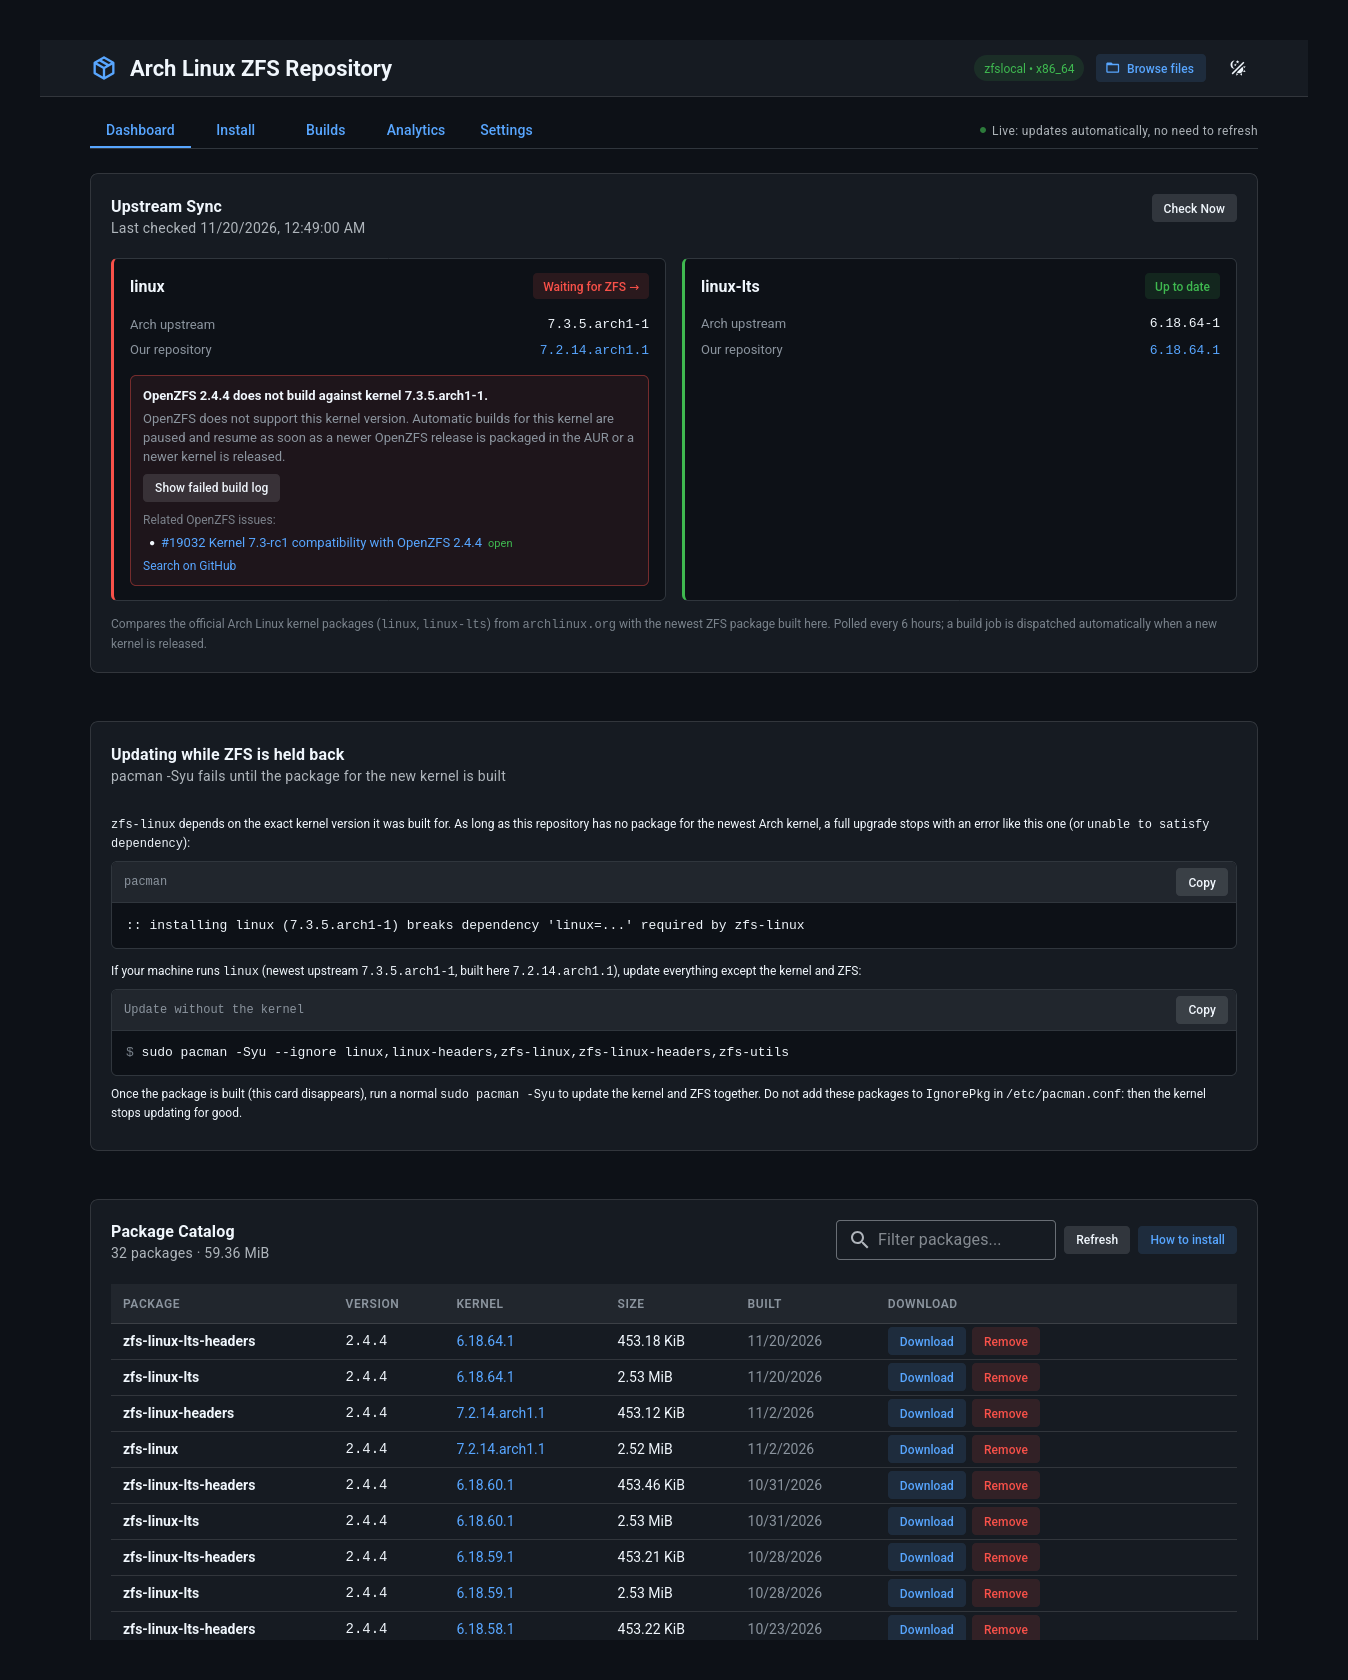
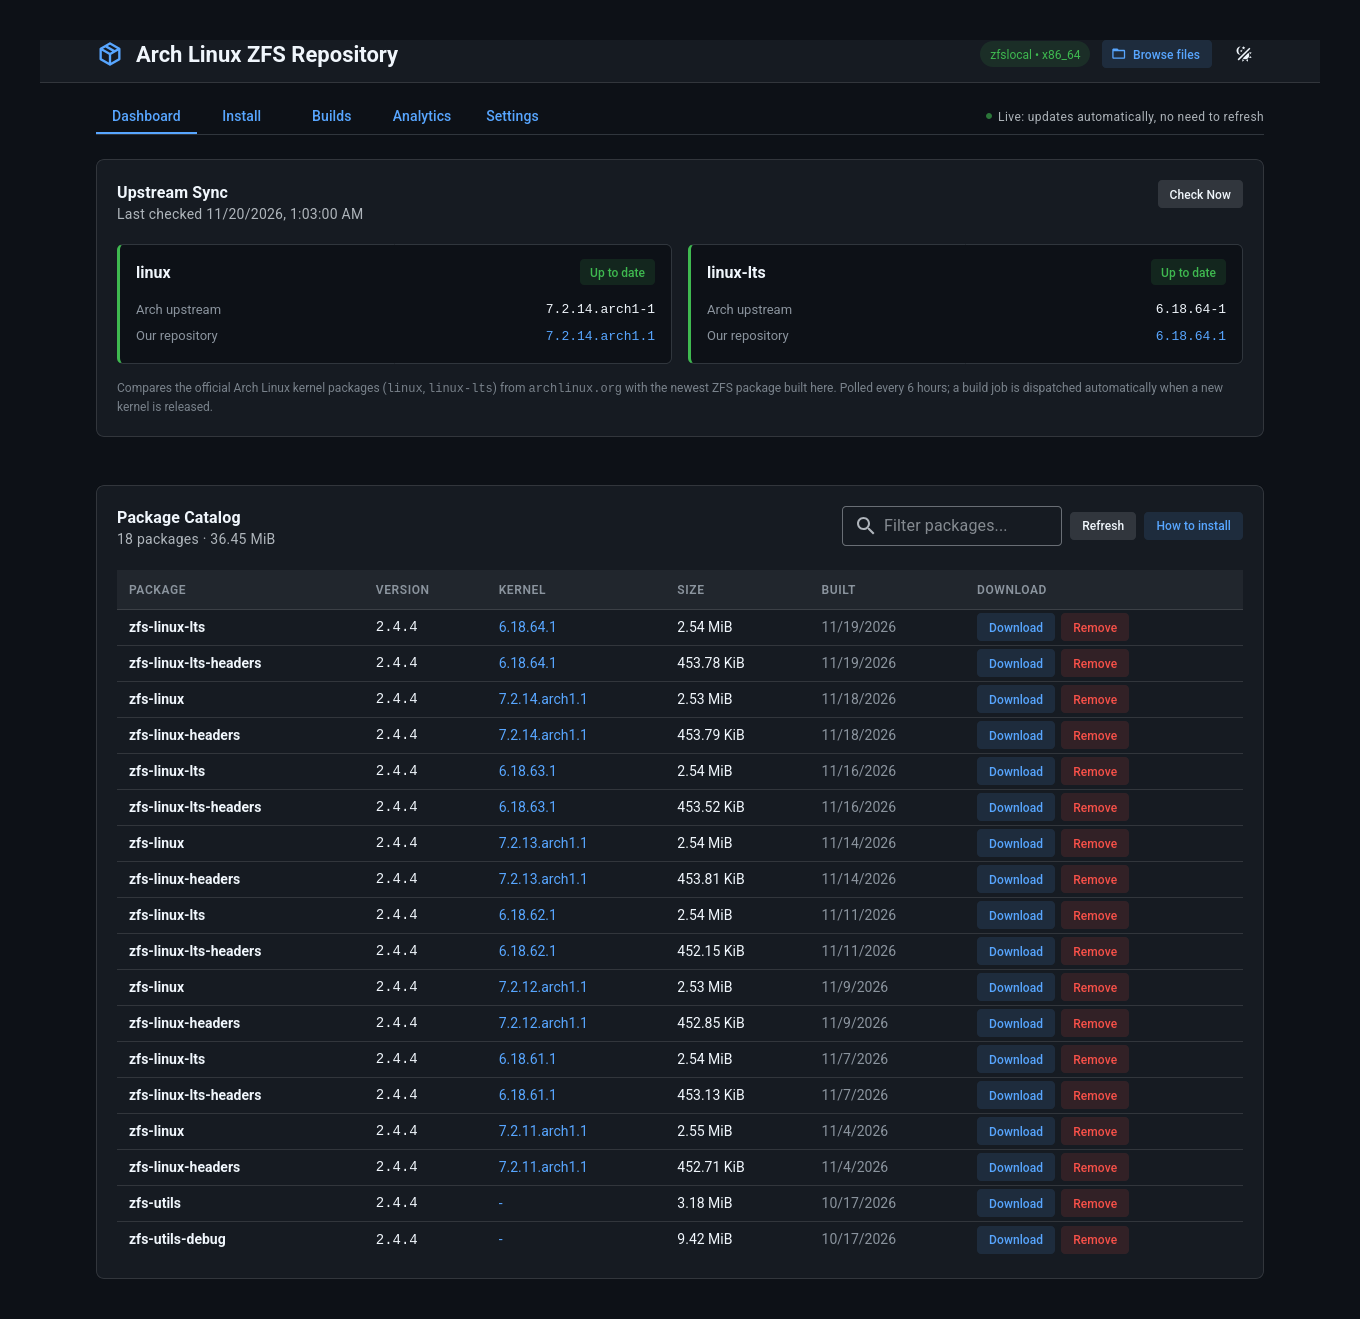
docs: take the screenshots from a demo with a healthy repository
The screenshots came from a real instance and showed its state, at the
moment a kernel OpenZFS does not support yet and a row of failed builds.

scripts/demo-server.mjs serves the built UI with made-up data: both
kernels up to date, a month of builds with one failure that the next
check fixed. It answers write requests with 403. `just screenshots` now
takes the screenshots from it (a URL argument still selects a running
UI), and `just demo` starts it on port 8099. Firefox reaches the demo as
zfs.example.com through the demo server as proxy, so the pacman.conf
snippet shows the example host of the docs.

diff --git a/docs/development/index.md b/docs/development/index.md
@@ -16,7 +16,8 @@ The server is written in Go, the web UI in Vue 3 with TypeScript, Vite and the c
 | Go tests | `go test ./...` or `just test` (with the race detector) |
 | UI type check and tests | `just test-ui` |
 | Format Go code | `just fmt` |
-| Take the screenshots of the README and these docs, in the dark theme (needs a running UI, Firefox and ImageMagick) | `just screenshots` |
+| The UI with made-up data of a healthy repository, read-only, on http://localhost:8099/ui/ | `just demo` |
+| Take the screenshots of the README and these docs from the demo, in the dark theme (needs Firefox and ImageMagick) | `just screenshots` |
 | Build these docs, as CI does | `just docs` |
 | Preview these docs on http://localhost:8001 | `just docs-serve` |
 
